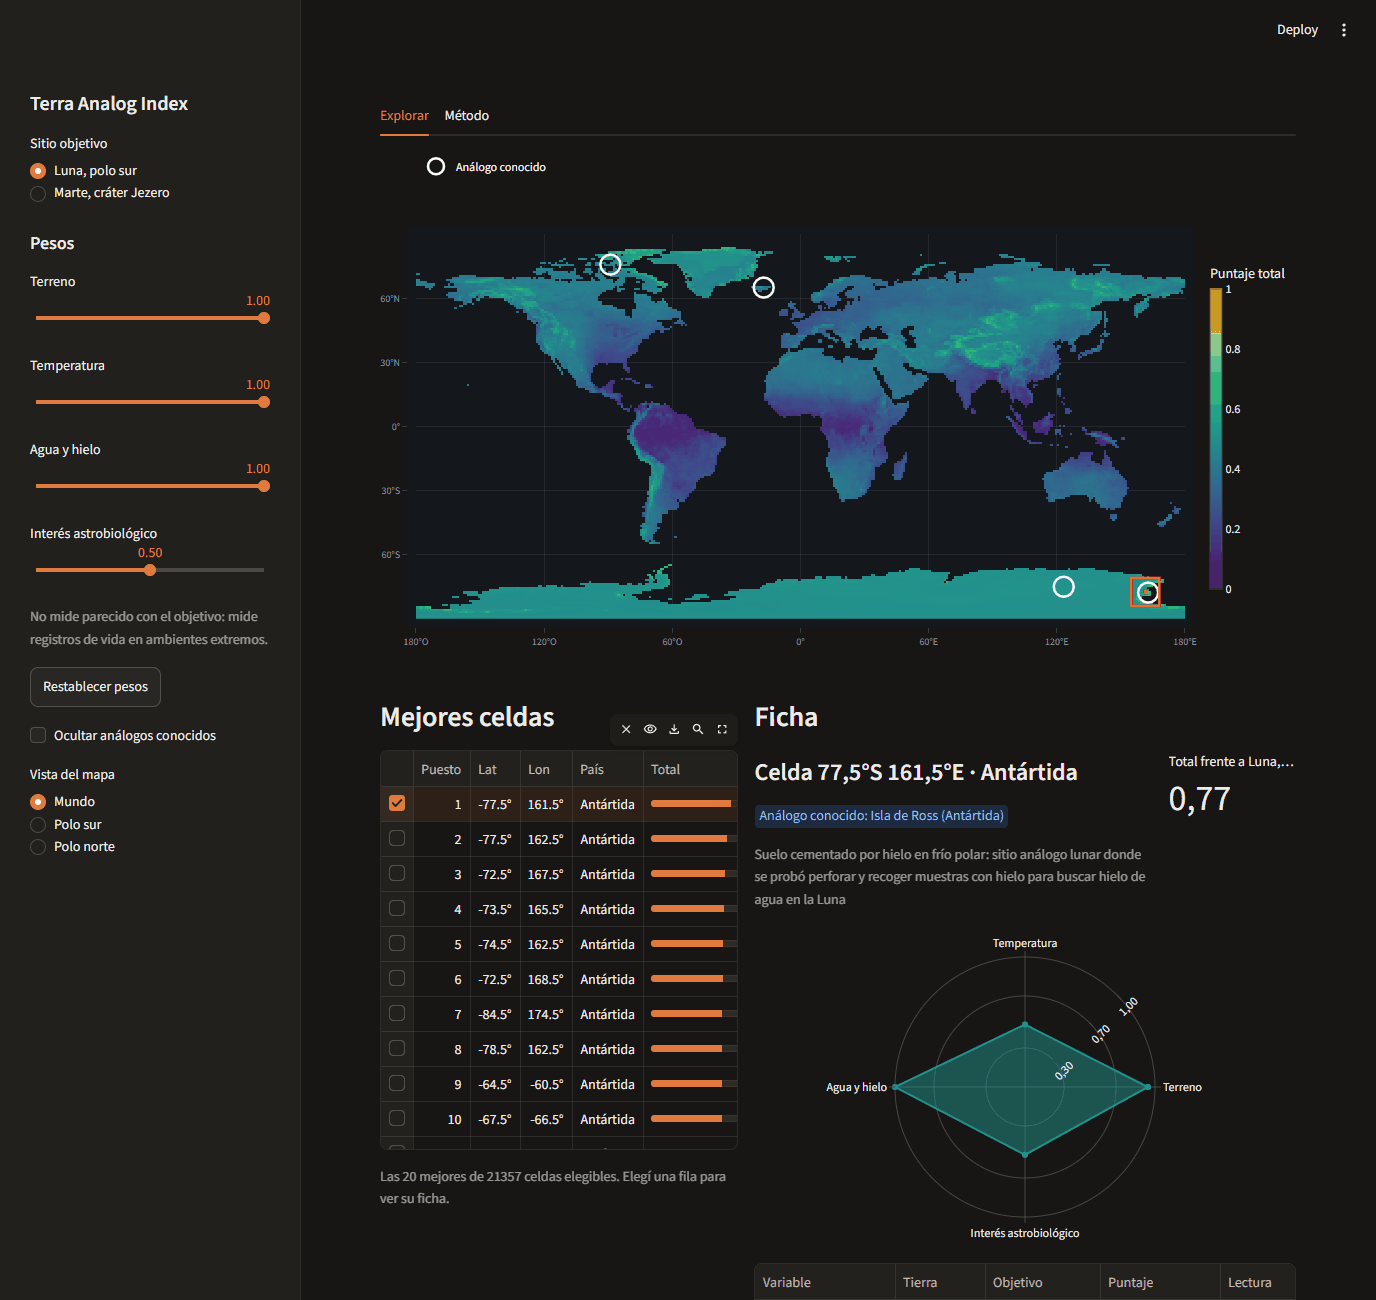
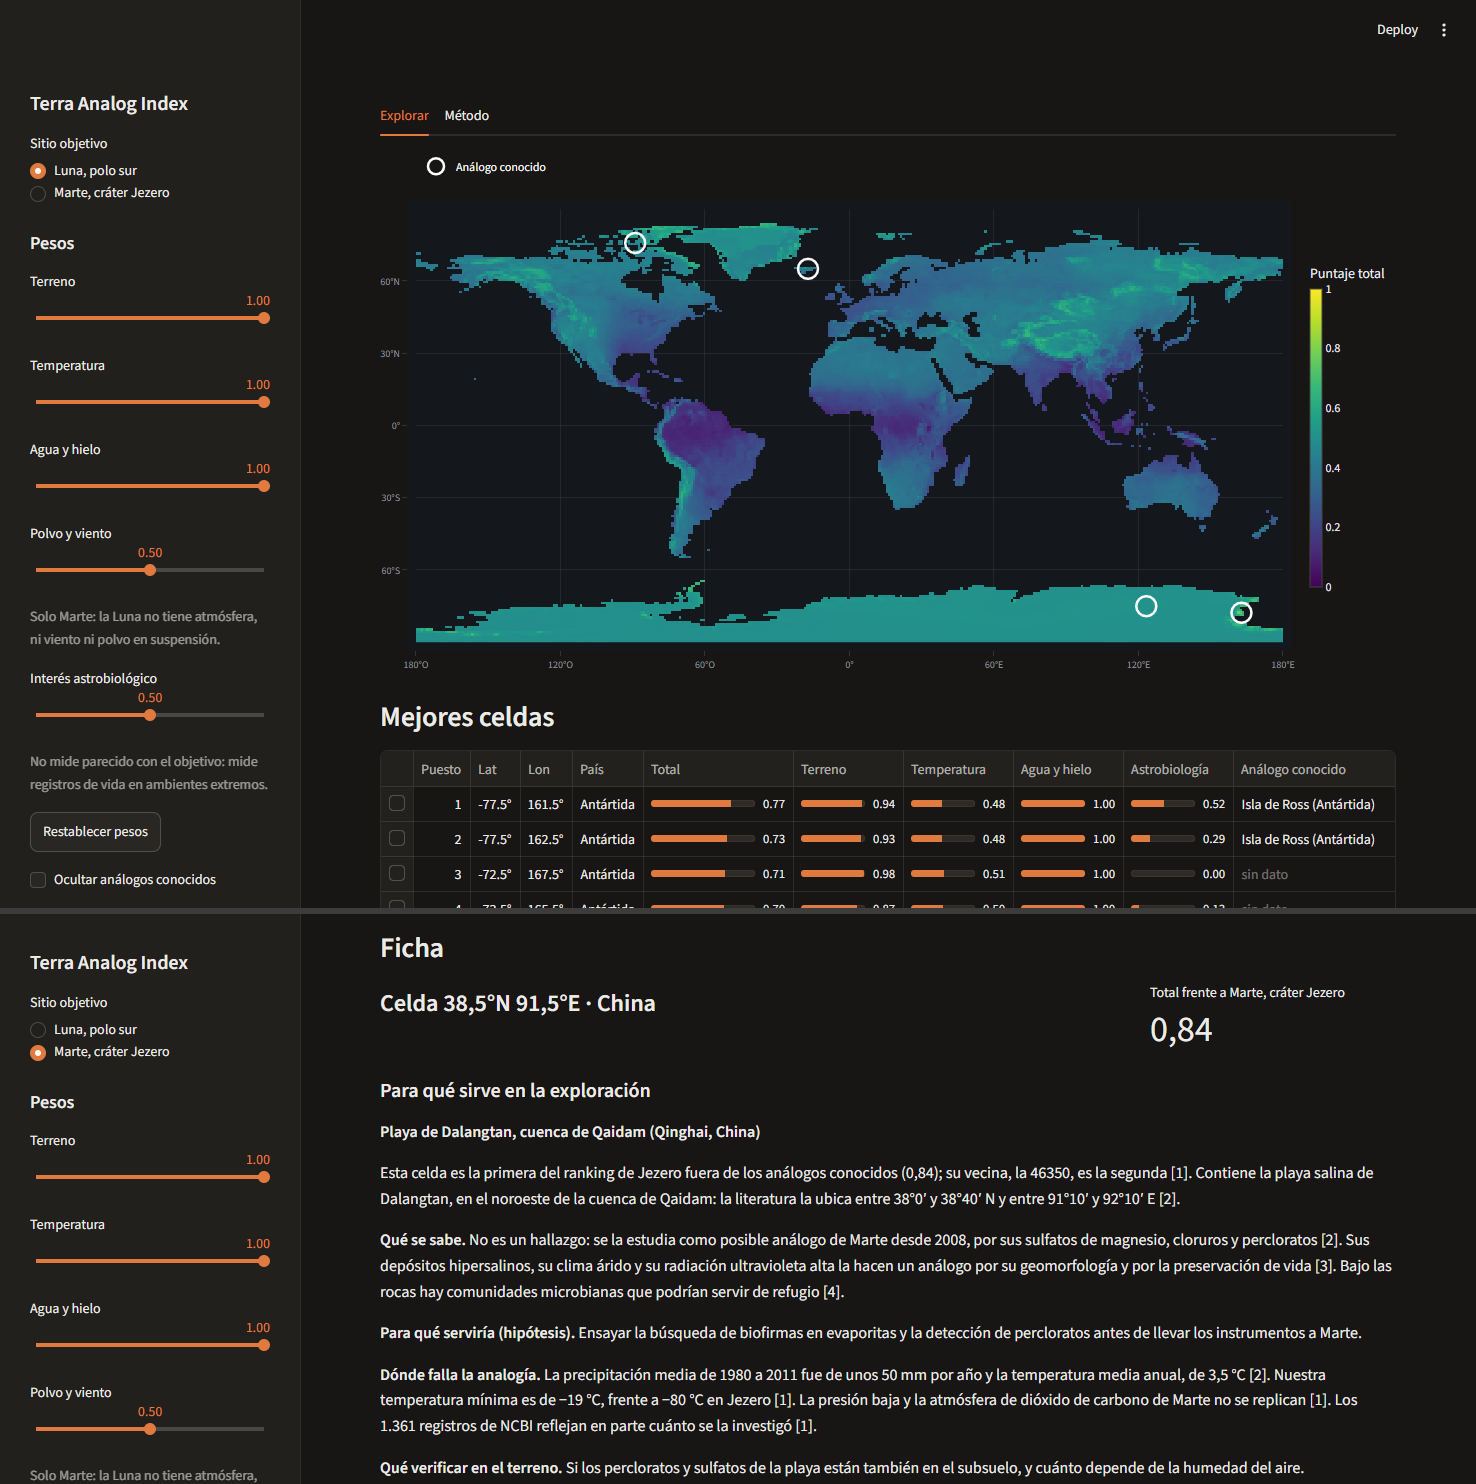
docs(readme): deployment section and a screenshot of the current app
Render settings (branch, build and start commands, free plan notes) and a new screenshot with the map, ranking and the Dalangtan site card.

AI-assisted: Claude Code (Sonnet 5.5)

diff --git a/README.md b/README.md
@@ -47,6 +47,24 @@ with its percentile and `pass`, `fail` or `info`), the limits and the credits. I
 
 `make help` lists every command.
 
+## Deployment
+
+The live app runs on [Render](https://render.com) as a free web service, built from the `develop` branch; every push to
+`develop` redeploys it. The settings are:
+
+| Setting | Value |
+| --- | --- |
+| Repository and branch | this repository, `develop` |
+| Language | Python 3 (Render's default, 3.14 at the time of writing; tested locally on 3.13) |
+| Build command | `pip install -r requirements.txt` |
+| Start command | `streamlit run streamlit_app.py --server.port $PORT --server.address 0.0.0.0 --server.headless true` |
+| Instance type | Free |
+
+The app only reads `data/processed/` and `requirements.txt` holds just the runtime packages, so no environment variables or
+secrets are needed. On the free plan the instance goes to sleep after about 15 minutes without visits, so the next visit can
+take a minute to load, and each interaction takes 3 to 4 seconds (0.3 seconds when run locally). For a demo, open the link a few
+minutes before or run the app locally with `make app`.
+
 ## Regenerate the data, step by step
 
 The app only reads `data/processed/`. Everything in it comes from an offline pipeline of nine steps
@@ -193,6 +211,7 @@ source of every value it shows.
 | `content/method.md` | Fixed text of the *Método* tab, one `## ` heading per section |
 | `data/raw/`, `data/interim/` | Downloads and intermediate files (not versioned; see `data/raw/README.md`) |
 | `data/processed/` | What the app reads (versioned) |
+| `docs/` | End-to-end test report, sources log and the screenshot and logo used here |
 | `scripts/` | Control maps, card and secret checks |
 | `tests/` | pytest; `tests/fixtures/` has one small file per contract |
 
